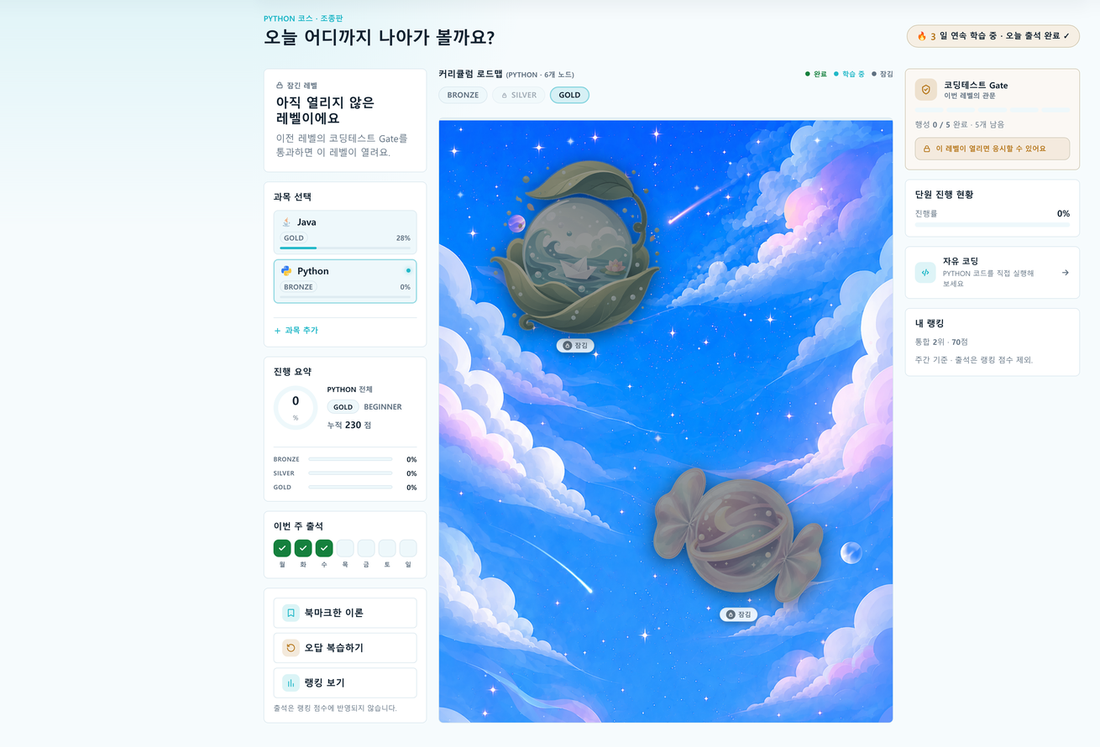
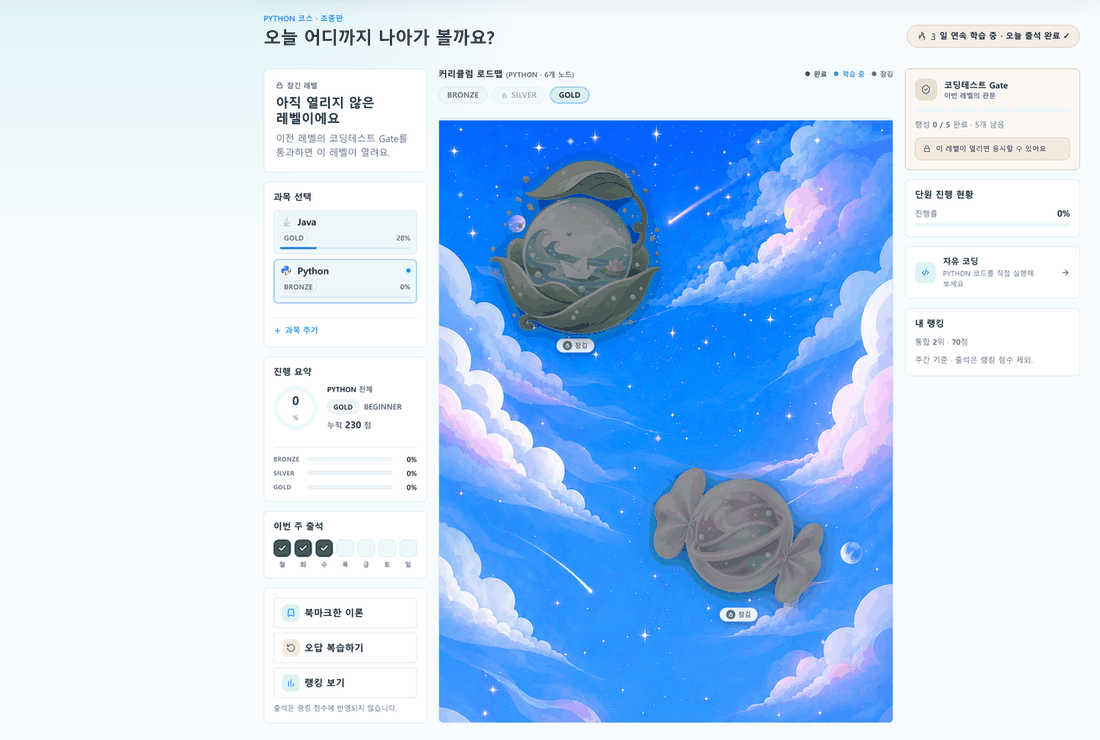
docs: 팀 프로젝트 구간 제거하고 공용 링크를 상단으로, 미리보기 여백 정리
README
- 팀 원본 README에서 옮겨온 "팀 프로젝트 전체" 구간(133줄) 전체 제거.
  담당 범위 표시는 상단 blockquote 한 줄로 이미 충족되어 중복
- 팀 공용 자료(시연 영상 · 기획/산출물)를 상단 제목 아래 링크 줄로 이동
- 배포 서비스 링크(knowvaedu.com) 제거 — DNS 해석 실패로 접속 불가 확인.
  살아 있는 시연 영상으로 대체
- 374 -> 240행

미리보기 이미지
- 04_lesson_detail 하단 빈 여백 20%, 05_bookmarks 52% 크롭.
  같은 표시 폭에서 콘텐츠가 각각 1.2배 / 2.1배로 커짐
- 03_locked_level 507KB -> 160KB (단일 이미지 500KB 상한 초과분 해소)
- README 참조 이미지 총합 0.54MB

diff --git a/README.md b/README.md
@@ -4,10 +4,16 @@
 
 <h3 align="center">행성 로드맵을 따라 진도가 열리는 코딩 학습 플랫폼 — <code>learning</code> 도메인</h3>
 
+<p align="center">
+  <a href="https://youtu.be/8a7laRKY914">시연 영상</a>
+  ·
+  <a href="https://app.notion.com/p/E-Knowva-37b04ef58e2a803287a3e65d4ec452b9?source=copy_link">기획 · 산출물</a>
+</p>
+
 <br/>
 
 > 출발 방식 선택 한 번이 이후 모든 화면의 잠금을 결정. 레벨 테스트는 채점 → 등급 판정 → 해당 레벨까지 해금이 한 트랜잭션.<br/>
-> **7명 팀 프로젝트 중 `learning` 도메인 담당.** 아래는 그 범위이고, [팀 프로젝트 전체](#팀-프로젝트-전체)는 문서 후반.
+> **7명 팀 프로젝트 중 `learning` 도메인 담당.** 아래는 그 범위.
 
 <br/>
 
@@ -232,143 +238,3 @@ learning/
 - **테스트** — 멱등 동작은 매퍼 test double로 5개 케이스 검증(`ProgressServiceMarkPracticePassedTest`). 반면 로드맵 노드 상태 판정과 레벨 테스트 채점은 여전히 화면 확인에 의존. 상태 판정 쪽 회귀 테스트가 다음 과제.
 - **남아 있는 문제** — 진행률 계산이 행성마다 `COUNT` 두 번을 실행(`computeRoadmapProgress` 루프). 행성이 6개인 현재 규모에서는 무리가 없으나 전형적인 N+1이라, 과목당 한 번의 집계 쿼리로 통합하는 것이 과제.
 - **한계** — 레벨 테스트 문항은 사전 등록 pool 기반. 과목별 문항 수가 늘어나면 8문항 선택 전략을 재검토해야 하는 구조.
-
-<br/>
-
----
-
-<br/>
-
-## 팀 프로젝트 전체
-
-7명이 함께 만든 서비스 전체의 참고 자료. 담당 범위는 위쪽까지다.
-
-**Knowva** — 학습 진도 · 코딩 테스트 · AI 분석 · 커뮤니티를 하나의 학습 루프로 연결한 게이미피케이션 코딩 학습 플랫폼. 에이콘아카데미 KDT 최종 프로젝트.
-
-[서비스](https://knowvaedu.com) · [기획·산출물](https://app.notion.com/p/E-Knowva-37b04ef58e2a803287a3e65d4ec452b9?source=copy_link) · [원본 저장소](https://github.com/hyunkyumlee/Acorn-E-Learning) · [DB 문서](docs/sql)
-
-<br/>
-
-도메인 패키지 기준으로 분담해 트랜잭션 충돌과 책임 공백을 축소.
-
-| 담당 | 패키지 | 역할 |
-| --- | --- | --- |
-| 공통 <sub>(4번 담당자 겸임)</sub> | `common` · `config` · `security` | 공통 응답/예외/검증/idempotency |
-| 1번 | `auth` | 회원가입·로그인·세션·OAuth |
-| **2번 · 조아진** | **`learning`** | **학습·커리큘럼·이론·레벨테스트·출석** |
-| 3번 | `practice` · `ranking` | 문제풀이·오답·점수·랭킹 |
-| 4번 | `exam` · `analysis` | AI 시험 / AI 분석 |
-| 5번 | `community` · `content` | 커뮤니티·파일·신고·추천콘텐츠 |
-| 6번 | `payment` · `user` | 결제·Premium·마이페이지 |
-| 7번 | `admin` | 관리자·운영·통합 |
-
-<br/>
-
-<details>
-<summary><b>서비스 전체 기능</b></summary>
-
-<br/>
-
-| 영역 | 내용 |
-| --- | --- |
-| **학습 로드맵** | Java · Python · SQL · HTML/CSS/JS 커리큘럼을 Bronze · Silver · Gold 난이도와 행성 단위로 제공. 출석 도장 · 누적 점수 · 북마크 · 오답 복습 · 주간/월간 랭킹 |
-| **AI 코딩 테스트** | 과목·난이도·학습 범위를 반영해 AI가 문제 생성. CodeMirror 6 에디터에서 실행 테스트 후 제출. 학습자에게는 공통 TODO starter code만 전달해 평가 공정성 확보 |
-| **AI 학습 분석** | 시험 결과와 풀이 이력 기반으로 강점·보완점·다음 학습 행동을 분석. 요청 토큰 기준으로 중복 생성 차단 |
-| **커뮤니티 · 추천 콘텐츠** | 과목·게시판·정렬 필터 커뮤니티. Milkdown 기반 Markdown 에디터, 댓글·좋아요·스크랩·신고와 관리자 moderation |
-| **계정 · 결제 · 권한** | 이메일 로그인, Google·GitHub OAuth, Lambda·SES 비밀번호 재설정. 세션 기반 인증과 역할 분리, Kakao Pay·Toss Payments 결제 |
-
-</details>
-
-<details>
-<summary><b>운영 아키텍처 · 배포 흐름</b></summary>
-
-<br/>
-
-```mermaid
-flowchart LR
-    USER["사용자 · 관리자"] -->|"HTTPS"| DNS["Route 53<br/>DNS Alias"]
-
-    subgraph AWS["AWS · ap-northeast-2"]
-        DNS --> ALB["Application Load Balancer<br/>HTTPS :443"]
-        ACM["ACM Certificate"] -. "TLS 인증서 연결" .-> ALB
-        ALB -->|"HTTP :8080 · /health"| EC2["EC2"]
-
-        subgraph HOST["EC2 Docker network"]
-            APP["Spring Boot 4 · Thymeleaf<br/>knowva-server"]
-            DB[("MySQL 8<br/>knowva-mysql")]
-            APP <--> DB
-        end
-
-        EC2 --> APP
-        APP -->|"private object read/write"| S3["Amazon S3<br/>사용자 업로드 파일"]
-        APP -->|"동기 invoke"| LAMBDA["AWS Lambda<br/>비밀번호 재설정 메일"]
-        LAMBDA --> SES["Amazon SES v2"]
-    end
-
-    APP -->|"문제 생성 · 분석"| OPENAI["OpenAI API"]
-    APP -->|"OAuth 2.0"| OAUTH["Google · GitHub"]
-```
-
-- Route 53 alias가 ALB로 요청을 전달하고, ACM 인증서가 연결된 ALB가 HTTPS를 종료.
-- ALB는 `/health` 상태 검사를 통과한 EC2의 Dockerized Spring Boot 앱으로만 요청을 전달. 앱과 MySQL은 같은 Docker network에서 통신.
-- 업로드 파일은 private S3에 저장하고 S3 URL을 브라우저에 노출하지 않음. 앱의 same-origin endpoint가 권한 확인 후 streaming.
-- 비밀번호 재설정은 EC2 앱이 Lambda를 동기 호출하고, Lambda가 SES v2로 메일을 전송.
-
-```mermaid
-flowchart LR
-    DEV["개발자<br/>main merge"] --> GA["GitHub Actions<br/>production environment"]
-    GA --> BUILD["Gradle test · bootJar<br/>Lambda test · build"]
-    BUILD --> OIDC["GitHub OIDC<br/>IAM Role assume"]
-    OIDC --> SAM["AWS SAM<br/>Lambda · private S3 배포"]
-    OIDC --> ECR["Amazon ECR<br/>linux/amd64 image push"]
-    ECR --> SSM["AWS Systems Manager<br/>remote command"]
-    SSM --> EC2["EC2<br/>image pull · container replace"]
-    EC2 --> HEALTH["/health check<br/>최대 30회 재시도"]
-```
-
-`main` push가 production Environment의 workflow를 시작. test·`bootJar` 통과 후 GitHub OIDC로 IAM Role을 assume해 long-lived access key를 저장하지 않음. SAM이 Lambda·private S3를 배포하고, Git SHA 태그 image를 ECR에 push한 뒤 SSM이 EC2 컨테이너를 교체. `/health`가 최대 30회 안에 성공해야 완료.
-
-운영은 `MAIL_TRANSPORT=lambda`, `KNOWVA_STORAGE_MODE=s3`. 전환·복구를 위해 코드 차원에서는 `smtp|lambda`, `local|mirror|s3` adapter도 유지.
-
-</details>
-
-<details>
-<summary><b>기술 스택 · 프로젝트 구조</b></summary>
-
-<br/>
-
-| 구분 | 사용 |
-| --- | --- |
-| Backend | Java 17, Spring Boot 4.0.6, Spring MVC, Spring Security, Validation, MyBatis |
-| View | Thymeleaf, HTML/CSS/JavaScript, CodeMirror 6, Milkdown 7, Marked, DOMPurify, esbuild |
-| Data | MySQL 8, MyBatis, H2 test runtime |
-| AI · 외부 연동 | OpenAI API, Google OAuth 2.0, GitHub OAuth, Kakao Pay, Toss Payments |
-| Infra | Docker, EC2, ALB, Route 53, ACM, ECR, Systems Manager, Lambda, SES v2, private S3, AWS SAM |
-| CI/CD | GitHub Actions, GitHub Environment, OIDC IAM Role |
-| Test | JUnit 5, Spring Boot Test, MyBatis Test, H2, Gradle |
-
-```text
-.
-├── ELearning/
-│   ├── src/main/java/com/acorn/elearning/
-│   │   ├── learning/     # 온보딩, 커리큘럼, 레슨, 레벨 테스트  ← 담당 파트
-│   │   ├── exam/         # AI 코딩 테스트, 실행, 채점
-│   │   ├── analysis/     # AI 학습 분석과 대시보드
-│   │   ├── community/    # 게시글, 댓글, 반응, 신고
-│   │   ├── practice/     # 문제 풀이와 오답노트
-│   │   ├── ranking/      # 점수·주간/월간 랭킹
-│   │   ├── content/      # 과목별 추천 콘텐츠
-│   │   ├── auth/         # 로그인, OAuth, Lambda 비밀번호 재설정
-│   │   ├── payment/      # 프리미엄 결제와 권한 부여
-│   │   ├── storage/      # local/mirror/S3 object storage adapter
-│   │   └── common/       # API 응답, 예외, AI client, idempotency
-│   ├── src/main/resources/  # Thymeleaf 화면 · static · MyBatis XML 매퍼
-│   ├── src/main/frontend/   # CodeMirror·Milkdown 번들 소스
-│   └── Dockerfile
-├── docs/sql/               # DDL, demo setup, curriculum, community seed data
-├── mail-lambda/            # Java 17 기반 SES v2 password-reset Lambda
-├── infra/aws/template.yaml # Lambda, private S3, EC2 runtime IAM 정책 SAM template
-└── .github/workflows/deploy.yml
-```
-
-</details>
